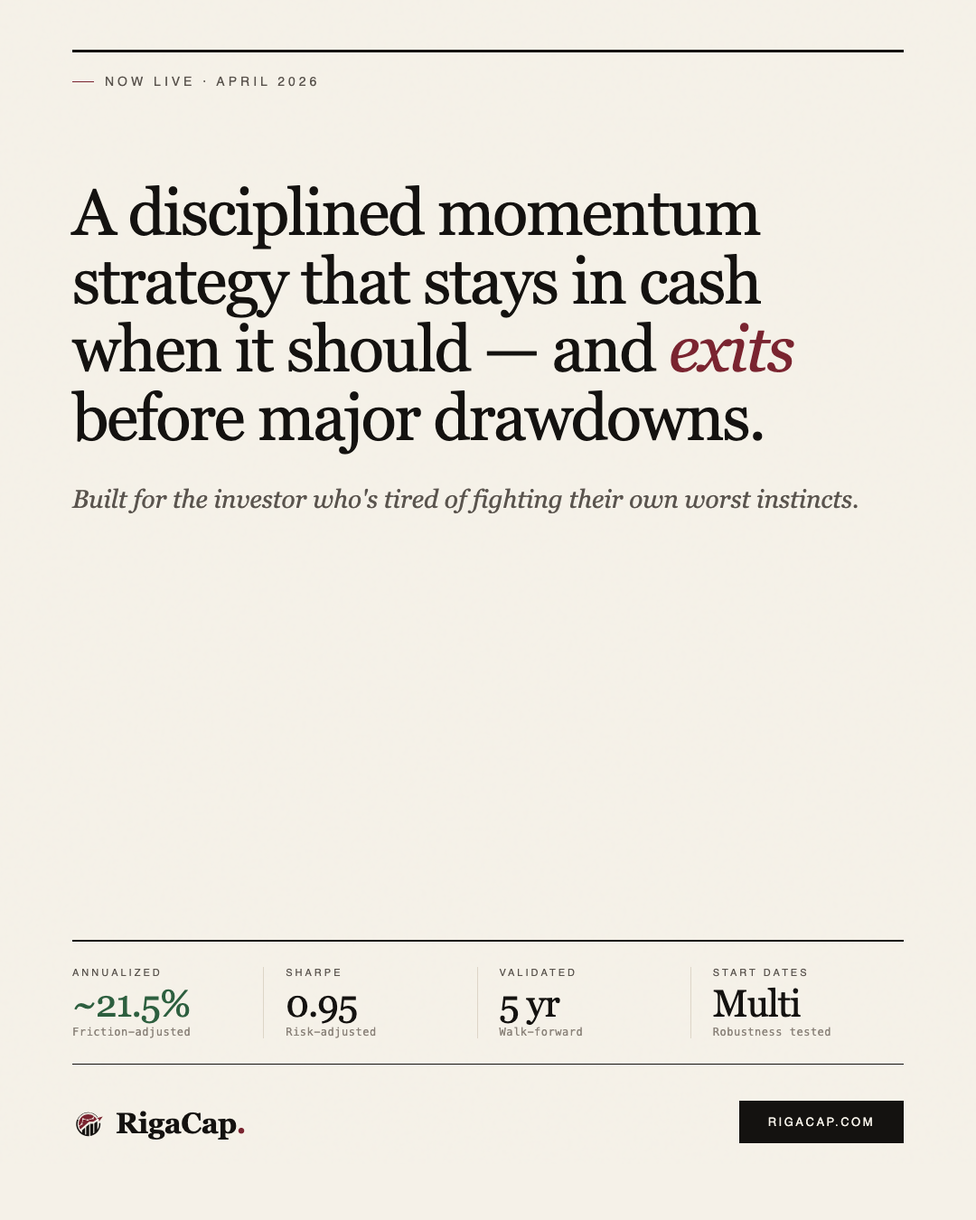
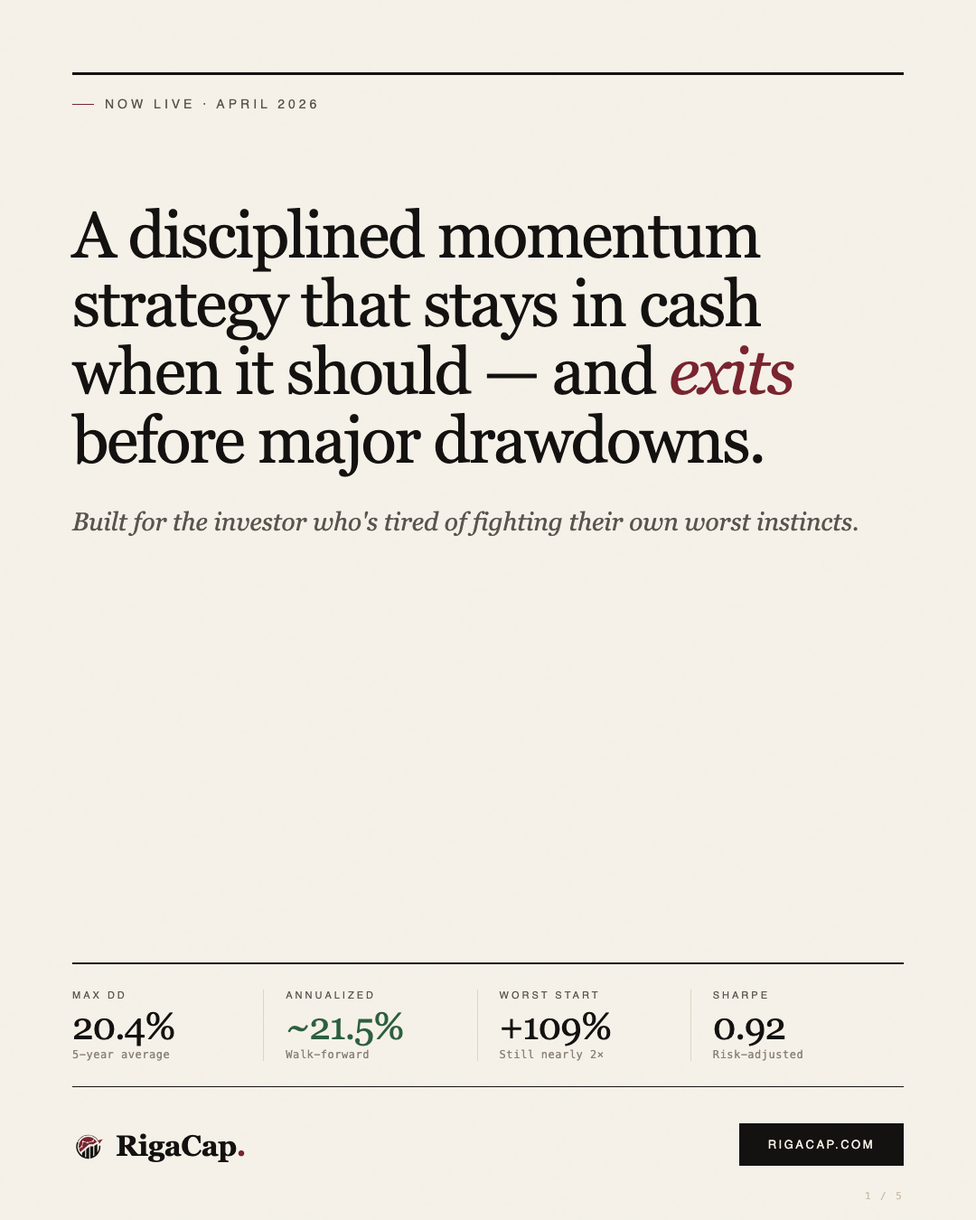
Sweep stale citations + brand update across subscriber-visible surfaces
Cleanup pass after the morning's perf-refresh, catching surfaces missed
in yesterday's first-pass audit:

- LandingPageV2: bear-market paragraph rewrite (every start positive in
  2022, ~+8% avg vs SPY -20%); widow fix on "What you're paying for"
- 10 blog post pages: $39/month → $129/month CTA fix
- SocialTab.jsx: 5 launch posts (Twitter/Instagram/Threads × 5 = 15 text
  blocks) refreshed with current pricing, +160% / 21.5% ann / 20.4% MDD,
  "the system" replaces "algorithm" per voice rules
- email_service.py: 2 missed "ended 2022 flat" mentions corrected
- social-launch-cards-v2.html: pullquote refreshed; Card 1 stats now
  match Landing hero pattern (Max DD / Annualized / Worst Start / Sharpe);
  Card 2 stats show full distribution (Worst / Average / Best / Max DD)
- Launch card PNGs regenerated (5 files): editorial paper+claret brand
  loaded properly, footer + CTA buttons no longer clipped (oversize-then-
  crop fix in regen_launch_cards.py)
- New: scripts/regen_launch_cards.py — reusable PIL-cropping renderer

diff --git a/frontend/src/components/SocialTab.jsx b/frontend/src/components/SocialTab.jsx
@@ -635,15 +635,15 @@ const LAUNCH_POSTS = [
     label: 'The Pitch',
     imageUrl: '/launch-cards/launch-1.png',
     twitter: {
-      text: "Hedge fund returns. $39/month.\n\n+384% over 5 years. Max drawdown around 30%. $10k becomes $48,400.\n\nThe average hedge fund charges 2% + 20% of profits and requires $1M minimum.\n\nWe charge less than your Netflix subscription.\n\nrigacap.com",
+      text: "Walk-forward validated returns. $129/month \u2014 less than a Seeking Alpha Premium subscription.\n\n+160% over 5 years. ~21.5% annualized. 20% max drawdown. Worst-case start date still nearly doubled capital.\n\nAverage hedge fund: ~10% annual, 2/20 fees, $1M minimum.\n\nNo minimums. Same signals for everyone.\n\nrigacap.com",
       hashtags: '#trading #investing #hedgefund',
     },
     instagram: {
-      text: "Hedge fund returns. $39/month.\n\nLet that sink in.\n\nThe average hedge fund returned ~10% annually over the last decade. They charge 2% of your assets plus 20% of your profits. Minimum investment: $1 million.\n\nOur system returned ~37% annually over the same period. We charge $39/month. No minimums. No performance fees. Everyone gets the same signals, whether you invest $5k or $500k.\n\n+384% over 5 years. Max drawdown around 30%. In 2022, while the S&P fell 20%, we stayed flat.\n\n$10,000 becomes $48,400. That's not a projection \u2014 it's what 10 years of walk-forward testing shows.\n\nStop trading on emotions. Start trading on math.\n\nrigacap.com",
+      text: "Better-than-hedge-fund returns. $129/month.\n\nLet that sink in.\n\nThe average hedge fund returned ~10% annually over the last decade. They charge 2% of your assets plus 20% of your profits. Minimum investment: $1 million.\n\nOur 5-year walk-forward averaged ~21.5% annualized across multiple start dates. We charge $129/month. No minimums. No performance fees. Everyone gets the same signals, whether you invest $5k or $500k.\n\n+160% average over 5 years. 20% max drawdown. In 2022, while the S&P fell 20%, every start date in our test ended in positive territory \u2014 averaging about +8%.\n\nStop trading on emotions. Start trading on math.\n\nrigacap.com",
       hashtags: '#trading #investing #hedgefund #algotrading #stockmarket #rigacap',
     },
     threads: {
-      text: "Hedge fund returns. $39/month.\n\n+384% over 5 years. Max drawdown around 30%. $10k \u2192 $48,400.\n\nAverage hedge fund: ~10% annual, $1M minimum, 2/20 fees.\nRigaCap: ~37% annual, no minimum, $39/month.\n\nSame signals whether you invest $5k or $500k.\n\nrigacap.com",
+      text: "Better-than-hedge-fund returns. $129/month.\n\n+160% over 5 years. ~21.5% annualized. 20% max drawdown.\n\nAverage hedge fund: ~10% annual, $1M minimum, 2/20 fees.\nRigaCap: ~21.5% annual, no minimum, $129/month.\n\nSame signals whether you invest $5k or $500k.\n\nrigacap.com",
     },
   },
   {
@@ -651,15 +651,15 @@ const LAUNCH_POSTS = [
     label: 'The 2022 Story',
     imageUrl: '/launch-cards/launch-2.png',
     twitter: {
-      text: "In 2022, the S&P 500 fell 20%.\n\nOur system stayed flat.\n\nIt didn't predict the crash. It just refused to trade in bad conditions. For 5 months, it generated zero signals. Most people would call that broken.\n\nWe call it discipline. And it's why we beat the market.\n\nrigacap.com",
+      text: "In 2022, the S&P 500 fell 20%.\n\nEvery start date in our 5-year walk-forward ended 2022 in positive territory \u2014 averaging about +8%.\n\nThe system didn't predict the crash. It responded to data. Regime-aware sizing and trailing-stop discipline kept the strategy on the right side of risk.\n\nThat behavior is the reason to subscribe.\n\nrigacap.com",
       hashtags: '#trading #investing #riskmanagement',
     },
     instagram: {
-      text: "In 2022, the S&P 500 fell 20%. Every \"buy the dip\" bro got crushed.\n\nOur system stayed flat.\n\nHow? It didn't predict the crash. It didn't short anything. It simply refused to trade.\n\nFor 5 consecutive months, it generated zero buy signals. Zero. It detected that conditions were unfavorable and sat on its hands.\n\nMost signal services would've kept spamming you with picks to justify their subscription. We went silent. Because the math said \"not now.\"\n\nThat discipline \u2014 knowing when NOT to trade \u2014 is worth more than any stock pick. It's the difference between flat and -20%.\n\nYear by year:\n2021: +76%\n2022: Flat (SPY: -20%)\n2023: +28%\n2024: +1%\n2025: +53%\n\nNever. A. Losing. Year.\n\nrigacap.com/track-record",
+      text: "In 2022, the S&P 500 fell 20%. Every \"buy the dip\" bro got crushed.\n\nOur 5-year walk-forward says every start date averaged about +8% in 2022.\n\nNot flat. Positive.\n\nHow? The system didn't predict the crash. It didn't short anything. It just responded to data \u2014 regime-aware position sizing, trailing-stop discipline, and Cascade Guard pausing new entries when multiple positions hit their stops on the same day.\n\nThat discipline \u2014 knowing when NOT to deploy capital \u2014 is worth more than any stock pick. It's the difference between +8% and -20% in a bear year.\n\nClean-data year by year:\n2022: +8% avg (SPY: -20%)\n2023: +12% avg\n2024: +32% avg\n2025: +50% (partial)\n\nEvery year, every start date positive.\n\nrigacap.com/track-record",
       hashtags: '#trading #investing #riskmanagement #bearmarket #algotrading #rigacap',
     },
     threads: {
-      text: "In 2022, the S&P 500 fell 20%.\n\nOur system stayed flat.\n\nFor 5 months it generated zero signals. It refused to trade in bad conditions.\n\nMost services spam you with picks to justify the fee. We went silent. Because the math said \"not now.\"\n\nThat discipline is why we never had a losing year.\n\nrigacap.com/track-record",
+      text: "In 2022, the S&P 500 fell 20%.\n\nEvery start date in our 5-year walk-forward ended 2022 in positive territory \u2014 averaging about +8%.\n\nThe system didn't predict the crash. It responded to data: regime-aware sizing, trailing stops, Cascade Guard.\n\nThat discipline is why every year, every start date came back positive.\n\nrigacap.com/track-record",
     },
   },
   {
@@ -667,15 +667,15 @@ const LAUNCH_POSTS = [
     label: 'Stop Trading on Emotions',
     imageUrl: '/launch-cards/launch-3.png',
     twitter: {
-      text: "You know you shouldn't panic sell.\nYou know you shouldn't FOMO buy.\nYou know you shouldn't check your portfolio 40 times a day.\n\nBut you do it anyway. Because you're human.\n\nOur algorithm isn't. That's the point.\n\n$39/month. rigacap.com",
+      text: "You know you shouldn't panic sell.\nYou know you shouldn't FOMO buy.\nYou know you shouldn't check your portfolio 40 times a day.\n\nBut you do it anyway. Because you're human.\n\nThe system isn't. That's the point.\n\n$129/month. rigacap.com",
       hashtags: '#trading #investing #emotionaltrading',
     },
     instagram: {
-      text: "Stop trading on emotions. Start trading on math.\n\nYou know the rules:\n\u2022 Don't panic sell\n\u2022 Don't FOMO into a rally\n\u2022 Don't hold losers hoping they'll come back\n\u2022 Don't check your portfolio 40 times a day\n\nBut you do it anyway. Because you're human. And humans are terrible at this.\n\nOur algorithm doesn't have feelings. It doesn't get scared. It doesn't get greedy. It doesn't read Reddit threads at 2am and convince itself to buy GameStop.\n\nIt scans 4,000 stocks daily. It detects 7 market regimes. It waits for all three factors to align. And when nothing qualifies, it does nothing.\n\nThat mechanical discipline produced ~37% annualized returns over 5 years. Max drawdown around 30%.\n\nYou don't need more stock picks. You need a system that removes you from the equation.\n\n$39/month. rigacap.com",
+      text: "Stop trading on emotions. Start trading on math.\n\nYou know the rules:\n\u2022 Don't panic sell\n\u2022 Don't FOMO into a rally\n\u2022 Don't hold losers hoping they'll come back\n\u2022 Don't check your portfolio 40 times a day\n\nBut you do it anyway. Because you're human. And humans are terrible at this.\n\nThe system doesn't have feelings. It doesn't get scared. It doesn't get greedy. It doesn't read Reddit threads at 2am and convince itself to buy GameStop.\n\nIt scans 4,000+ stocks daily. It tracks 7 market regimes. It waits for breakout timing, momentum quality, and volume to align. And when nothing qualifies, it does nothing.\n\nThat mechanical discipline produced ~21.5% annualized returns over 5 years. 20% max drawdown.\n\nYou don't need more stock picks. You need a system that removes you from the equation.\n\n$129/month. rigacap.com",
       hashtags: '#trading #investing #emotionaltrading #algotrading #stockmarket #rigacap',
     },
     threads: {
-      text: "You know you shouldn't panic sell.\nYou know you shouldn't FOMO buy.\nYou do it anyway. Because you're human.\n\nOur algorithm isn't. It scans 4,000 stocks daily, detects 7 market regimes, and only acts when the math says go.\n\n~37% annualized over 5 years. Max drawdown around 30%.\n\nStop trading on emotions. $39/month.\n\nrigacap.com",
+      text: "You know you shouldn't panic sell.\nYou know you shouldn't FOMO buy.\nYou do it anyway. Because you're human.\n\nThe system isn't. It scans 4,000+ stocks daily across 7 regimes, and only acts when the math says go.\n\n~21.5% annualized over 5 years. 20% max drawdown.\n\nStop trading on emotions. $129/month.\n\nrigacap.com",
     },
   },
   {
@@ -683,15 +683,15 @@ const LAUNCH_POSTS = [
     label: 'The Math',
     imageUrl: '/launch-cards/launch-4.png',
     twitter: {
-      text: "$10,000 invested 10 years ago:\n\nS&P 500 index fund: $25,700\nAverage hedge fund: $26,000\nRigaCap: $48,400\n\nOne of these costs $39/month.\nOne charges 2% + 20% and needs $1M to get in.\nOne you can buy at Vanguard.\n\nrigacap.com",
+      text: "$10,000 invested 5 years ago across our walk-forward:\n\nS&P 500 (price-only): $19,300\nAverage hedge fund: $16,100\nRigaCap (avg of multiple starts): $26,000\n\nOne charges 2% + 20% and needs $1M minimum.\nOne is the index.\nOne is $129/month.\n\nrigacap.com",
       hashtags: '#trading #investing #compounding',
     },
     instagram: {
-      text: "Let's do the math.\n\n$10,000 invested 10 years ago:\n\n\ud83d\udfe2 RigaCap: $48,400 (+384%)\n\ud83d\udfe1 S&P 500: $25,700 (+257%)\n\ud83d\udd34 Average hedge fund: $26,000 (~10% ann)\n\nRigaCap beat the market by 2x. And the average hedge fund.\n\nThe hedge fund charges:\n\u2022 2% of your assets annually\n\u2022 20% of your profits\n\u2022 $1M+ minimum investment\n\nRigaCap charges:\n\u2022 $39/month\n\u2022 No minimums\n\u2022 No performance fees\n\u2022 Same signals for everyone\n\nA $50k portfolio earning 20% annually = $10k/year in returns.\nRigaCap's annual cost: $468.\n\nThat's a 21:1 value ratio.\n\nPast performance doesn't guarantee future results. But the math is the math.\n\nrigacap.com",
+      text: "Let's do the math.\n\n$10,000 invested 5 years ago, walk-forward validated:\n\nRigaCap: $26,000 (+160%)\nS&P 500 (price-only): $19,300 (+93%)\nAverage hedge fund: $16,100 (~10% ann)\n\nThe hedge fund charges:\n\u2022 2% of your assets annually\n\u2022 20% of your profits\n\u2022 $1M+ minimum investment\n\nRigaCap charges:\n\u2022 $129/month\n\u2022 No minimums\n\u2022 No performance fees\n\u2022 Same signals for everyone\n\nA $100k portfolio earning ~21.5% annually = roughly $21,500/year.\nRigaCap annual cost: $1,548 (or $1,099 on the annual plan).\n\nPast performance doesn't guarantee future results. But the math is the math.\n\nrigacap.com",
       hashtags: '#trading #investing #compounding #hedgefund #algotrading #rigacap',
     },
     threads: {
-      text: "$10,000 over 5 years:\n\nS&P 500: $25,700\nAvg hedge fund: $26,000\nRigaCap: $48,400\n\nThe hedge fund charges 2/20 and needs $1M minimum.\nWe charge $39/month. No minimums.\n\n$50k portfolio \u00d7 20% return = $10k/year.\nRigaCap cost: $468/year.\n\n21:1 value ratio.\n\nrigacap.com",
+      text: "$10,000 over 5 years:\n\nRigaCap: $26,000 (+160%)\nS&P 500: $19,300\nAvg hedge fund: $16,100\n\nThe hedge fund charges 2/20 and needs $1M minimum.\nWe charge $129/month. No minimums.\n\n$100k portfolio \u00d7 ~21.5% return = ~$21,500/year potential.\nRigaCap cost: $1,548/year.\n\nrigacap.com",
     },
   },
   {
@@ -699,15 +699,15 @@ const LAUNCH_POSTS = [
     label: 'The Anti-Signal Service',
     imageUrl: '/launch-cards/launch-5.png',
     twitter: {
-      text: "Most signal services send you 15 picks a week to justify the subscription.\n\nWe send 3-4 a month. Sometimes zero.\n\nBecause we'd rather say nothing than say something wrong. And that discipline is why we returned +384% over 5 years.\n\nrigacap.com",
+      text: "Most signal services send you 15 picks a week to justify the subscription.\n\nWe send 3-4 a month. Sometimes zero.\n\nBecause we'd rather say nothing than say something wrong. That discipline is why we averaged +160% over 5 years across multiple start dates.\n\nrigacap.com",
       hashtags: '#trading #signals #investing',
     },
     instagram: {
-      text: "We're the anti-signal service.\n\nMotley Fool sends you a pick every week. Seeking Alpha has 47 \"strong buys\" right now. Your buddy's Discord has a new hot stock every hour.\n\nWe send 3-4 signals per month. Sometimes zero.\n\nWhy? Because our system scans 4,000 stocks daily through a 3-factor gauntlet \u2014 breakout timing, momentum quality, and market regime \u2014 and most days, nothing passes. Not one stock out of 4,000 meets the bar.\n\nThat's not a bug. That's the whole point.\n\nThe signal services that spam you with picks are optimizing for engagement. We're optimizing for returns.\n\n+384% over 5 years. Max drawdown around 30%.\n\nYou don't need more picks. You need better picks. And the discipline to do nothing the rest of the time.\n\n$39/month. rigacap.com",
+      text: "We're the anti-signal service.\n\nMotley Fool sends you a pick every week. Seeking Alpha has 47 \"strong buys\" right now. Your buddy's Discord has a new hot stock every hour.\n\nWe send 3-4 signals per month. Sometimes zero.\n\nWhy? The system scans 4,000+ stocks daily through a 3-factor gauntlet \u2014 breakout timing, momentum quality, and volume confirmation \u2014 and most days, nothing passes. Not one stock out of 4,000 meets the bar.\n\nThat's not a bug. That's the whole point.\n\nThe signal services that spam you with picks are optimizing for engagement. We're optimizing for returns.\n\n+160% over 5 years across multiple start dates. 20% max drawdown.\n\nYou don't need more picks. You need better picks. And the discipline to do nothing the rest of the time.\n\n$129/month. rigacap.com",
       hashtags: '#trading #signals #investing #stockmarket #algotrading #rigacap',
     },
     threads: {
-      text: "Most signal services send 15 picks a week to justify the fee.\n\nWe send 3-4 a month. Sometimes zero.\n\nOur system scans 4,000 stocks daily. Most days, nothing passes. That's not broken \u2014 that's discipline.\n\n+384% over 5 years. Max drawdown around 30%.\n\nYou don't need more picks. You need better picks.\n\n$39/month. rigacap.com",
+      text: "Most signal services send 15 picks a week to justify the fee.\n\nWe send 3-4 a month. Sometimes zero.\n\nThe system scans 4,000+ stocks daily. Most days, nothing passes. That's not broken \u2014 that's discipline.\n\n+160% over 5 years. 20% max drawdown.\n\nYou don't need more picks. You need better picks.\n\n$129/month. rigacap.com",
     },
   },
 ];

diff --git a/design/brand/social-launch-cards-v2.html b/design/brand/social-launch-cards-v2.html
@@ -66,10 +66,10 @@
     <p class="subhead">Built for the investor who's tired of fighting their own&nbsp;worst&nbsp;instincts.</p>
     <div class="spacer"></div>
     <div class="stats-strip">
-      <div class="stat"><div class="stat-label">Annualized</div><div class="stat-value positive">~21.5%</div><div class="stat-sub">5-year walk-forward</div></div>
+      <div class="stat"><div class="stat-label">Max DD</div><div class="stat-value">20.4%</div><div class="stat-sub">5-year average</div></div>
+      <div class="stat"><div class="stat-label">Annualized</div><div class="stat-value positive">~21.5%</div><div class="stat-sub">Walk-forward</div></div>
+      <div class="stat"><div class="stat-label">Worst Start</div><div class="stat-value">+109%</div><div class="stat-sub">Still nearly 2&times;</div></div>
       <div class="stat"><div class="stat-label">Sharpe</div><div class="stat-value">0.92</div><div class="stat-sub">Risk-adjusted</div></div>
-      <div class="stat"><div class="stat-label">Validated</div><div class="stat-value">5 yr</div><div class="stat-sub">Walk-forward</div></div>
-      <div class="stat"><div class="stat-label">Start dates</div><div class="stat-value">Multi</div><div class="stat-sub">Robustness tested</div></div>
     </div>
     <div class="footer">
       <span class="brand"><svg class="brand-logo" xmlns="http://www.w3.org/2000/svg" viewBox="0 0 1280 1024"><g transform="matrix(5.27 0 0 5.27 640 511)"><g><g transform="matrix(0.448 0 0 0.448 -22.4 -28.8)"><path fill="#7A2430" transform="translate(-300,-286)" d="M215.49 348.13C215.49 341.43 220.55 335.98 227.05 335.22L241.64 278.36C238.32 275.99 236.13 272.12 236.13 267.73C236.13 260.51 241.98 254.66 249.2 254.66C255.89 254.66 261.34 259.71 262.11 266.19L309.18 278.16C311.55 274.82 315.42 272.63 319.83 272.63C324 272.63 327.67 274.62 330.06 277.66L391.39 258.85C391.87 252.06 397.46 246.69 404.37 246.69C405.09 246.69 405.78 246.79 406.47 246.91L420.4 223.13C395.44 205.2 364.84 194.62 331.76 194.62C247.75 194.62 179.66 262.72 179.66 346.72C179.66 357.06 180.71 367.15 182.69 376.91L216.05 351.72C215.72 350.57 215.49 349.38 215.49 348.13z"/></g><g transform="matrix(0.448 0 0 0.448 -11.1 -9)"><path fill="#7A2430" transform="translate(-325,-330)" d="M427.89 228.86L414.54 251.65C416.32 253.88 417.43 256.68 417.43 259.76C417.43 266.98 411.58 272.83 404.37 272.83C400.19 272.83 396.52 270.84 394.13 267.79L332.8 286.61C332.33 293.39 326.73 298.76 319.83 298.76C313.14 298.76 307.69 293.72 306.92 287.24L259.84 275.26C257.76 278.21 254.48 280.2 250.71 280.64L236.12 337.5C239.44 339.87 241.63 343.74 241.63 348.13C241.63 355.35 235.78 361.2 228.56 361.2C226.02 361.2 223.68 360.45 221.67 359.19L185.04 386.86C189.39 402.76 196.25 417.63 205.17 431L343.51 312.12L408.04 312.12L465.59 274.41C456.09 256.86 443.23 241.4 427.89 228.86z"/></g><g transform="matrix(0.448 0 0 0.448 73.8 -37.1)"><polygon fill="#7A2430" points="-45.31,-14.33 45.31,-39.44 -12.75,39.44 -17.06,3.28"/></g><g transform="matrix(0.448 0 0 0.448 -48.2 25.7)"><path fill="#141210" transform="translate(-242,-407)" d="M297.69 513.38C291.85 512.18 286.13 510.68 280.53 508.91L280.53 405.3L233.16 446.01L233.16 485.18C189.93 454.31 161.67 403.77 161.67 346.72C161.67 321.48 167.23 297.53 177.14 275.97L153.41 275.97C144.69 297.88 139.84 321.74 139.84 346.72C139.84 452.54 225.93 538.63 331.76 538.63C336.23 538.63 340.66 538.42 345.06 538.12L345.06 349.85L297.69 390.55L297.69 513.38z"/></g><g transform="matrix(0.448 0 0 0.448 41.6 31.4)"><path fill="#141210" transform="translate(-443,-420)" d="M523.16 333.38L501.27 333.38C501.62 337.79 501.85 342.23 501.85 346.72C501.85 381 491.63 412.92 474.11 439.65L474.11 304.24L426.75 335.28L426.75 487.65C421.24 491.37 415.52 494.78 409.58 497.85L409.58 341.74L362.22 341.74L362.22 536.19C453.61 521.55 523.67 442.17 523.67 346.72C523.67 342.23 523.46 337.79 523.16 333.38z"/></g><g transform="matrix(0.448 0 0 0.448 -11.8 -60.8)"><path fill="#141210" transform="translate(-324,-214)" d="M331.75 169.32C390.45 169.32 442.58 197.98 474.89 242.04L483.06 239.78C449.46 192.37 394.16 161.37 331.75 161.37C258.06 161.37 194.28 204.6 164.43 267.02L173.29 267.02C202.53 209.12 262.58 169.32 331.75 169.32z"/></g></g></g></svg>RigaCap<span class="dot">.</span></span>
@@ -89,12 +89,12 @@
     <p class="subhead">Every start date positive. Best, average, and worst — all&nbsp;published.</p>
     <div class="spacer"></div>
     <div class="stats-strip">
-      <div class="stat"><div class="stat-label">Avg Return</div><div class="stat-value positive">+160%</div><div class="stat-sub">5-year total</div></div>
-      <div class="stat"><div class="stat-label">Worst Start</div><div class="stat-value">+109%</div><div class="stat-sub">Still positive</div></div>
-      <div class="stat"><div class="stat-label">Sharpe</div><div class="stat-value">0.92</div><div class="stat-sub">Risk-adjusted</div></div>
-      <div class="stat"><div class="stat-label">S&P 500</div><div class="stat-value">+93%</div><div class="stat-sub">Same period</div></div>
+      <div class="stat"><div class="stat-label">Worst Start</div><div class="stat-value">+109%</div><div class="stat-sub">Still nearly 2&times;</div></div>
+      <div class="stat"><div class="stat-label">Average</div><div class="stat-value positive">+160%</div><div class="stat-sub">All start dates</div></div>
+      <div class="stat"><div class="stat-label">Best Start</div><div class="stat-value">+252%</div><div class="stat-sub">Top of distribution</div></div>
+      <div class="stat"><div class="stat-label">Max DD</div><div class="stat-value">20.4%</div><div class="stat-sub">Drawdown</div></div>
     </div>
-    <div class="pullquote">The system ended 2022 flat while the S&P fell 20% — not by luck,&nbsp;but&nbsp;by&nbsp;design.</div>
+    <div class="pullquote">Every start date ended 2022 in positive territory while the S&P fell 20% — not by luck, but by&nbsp;design.</div>
     <div class="footer">
       <span class="brand"><svg class="brand-logo" xmlns="http://www.w3.org/2000/svg" viewBox="0 0 1280 1024"><g transform="matrix(5.27 0 0 5.27 640 511)"><g><g transform="matrix(0.448 0 0 0.448 -22.4 -28.8)"><path fill="#7A2430" transform="translate(-300,-286)" d="M215.49 348.13C215.49 341.43 220.55 335.98 227.05 335.22L241.64 278.36C238.32 275.99 236.13 272.12 236.13 267.73C236.13 260.51 241.98 254.66 249.2 254.66C255.89 254.66 261.34 259.71 262.11 266.19L309.18 278.16C311.55 274.82 315.42 272.63 319.83 272.63C324 272.63 327.67 274.62 330.06 277.66L391.39 258.85C391.87 252.06 397.46 246.69 404.37 246.69C405.09 246.69 405.78 246.79 406.47 246.91L420.4 223.13C395.44 205.2 364.84 194.62 331.76 194.62C247.75 194.62 179.66 262.72 179.66 346.72C179.66 357.06 180.71 367.15 182.69 376.91L216.05 351.72C215.72 350.57 215.49 349.38 215.49 348.13z"/></g><g transform="matrix(0.448 0 0 0.448 -11.1 -9)"><path fill="#7A2430" transform="translate(-325,-330)" d="M427.89 228.86L414.54 251.65C416.32 253.88 417.43 256.68 417.43 259.76C417.43 266.98 411.58 272.83 404.37 272.83C400.19 272.83 396.52 270.84 394.13 267.79L332.8 286.61C332.33 293.39 326.73 298.76 319.83 298.76C313.14 298.76 307.69 293.72 306.92 287.24L259.84 275.26C257.76 278.21 254.48 280.2 250.71 280.64L236.12 337.5C239.44 339.87 241.63 343.74 241.63 348.13C241.63 355.35 235.78 361.2 228.56 361.2C226.02 361.2 223.68 360.45 221.67 359.19L185.04 386.86C189.39 402.76 196.25 417.63 205.17 431L343.51 312.12L408.04 312.12L465.59 274.41C456.09 256.86 443.23 241.4 427.89 228.86z"/></g><g transform="matrix(0.448 0 0 0.448 73.8 -37.1)"><polygon fill="#7A2430" points="-45.31,-14.33 45.31,-39.44 -12.75,39.44 -17.06,3.28"/></g><g transform="matrix(0.448 0 0 0.448 -48.2 25.7)"><path fill="#141210" transform="translate(-242,-407)" d="M297.69 513.38C291.85 512.18 286.13 510.68 280.53 508.91L280.53 405.3L233.16 446.01L233.16 485.18C189.93 454.31 161.67 403.77 161.67 346.72C161.67 321.48 167.23 297.53 177.14 275.97L153.41 275.97C144.69 297.88 139.84 321.74 139.84 346.72C139.84 452.54 225.93 538.63 331.76 538.63C336.23 538.63 340.66 538.42 345.06 538.12L345.06 349.85L297.69 390.55L297.69 513.38z"/></g><g transform="matrix(0.448 0 0 0.448 41.6 31.4)"><path fill="#141210" transform="translate(-443,-420)" d="M523.16 333.38L501.27 333.38C501.62 337.79 501.85 342.23 501.85 346.72C501.85 381 491.63 412.92 474.11 439.65L474.11 304.24L426.75 335.28L426.75 487.65C421.24 491.37 415.52 494.78 409.58 497.85L409.58 341.74L362.22 341.74L362.22 536.19C453.61 521.55 523.67 442.17 523.67 346.72C523.67 342.23 523.46 337.79 523.16 333.38z"/></g><g transform="matrix(0.448 0 0 0.448 -11.8 -60.8)"><path fill="#141210" transform="translate(-324,-214)" d="M331.75 169.32C390.45 169.32 442.58 197.98 474.89 242.04L483.06 239.78C449.46 192.37 394.16 161.37 331.75 161.37C258.06 161.37 194.28 204.6 164.43 267.02L173.29 267.02C202.53 209.12 262.58 169.32 331.75 169.32z"/></g></g></g></svg>RigaCap<span class="dot">.</span></span>
       <span class="cta">rigacap.com/track-record</span>

diff --git a/frontend/src/LandingPageV2.jsx b/frontend/src/LandingPageV2.jsx
@@ -121,8 +121,8 @@ const ValuePropSection = () => (
       <SectionLabel>What You're Actually Paying For</SectionLabel>
 
       <p className="font-display text-[1.5rem] leading-[1.45] text-ink mb-7" style={{ fontVariationSettings: '"opsz" 48' }}>
-        You can find signals anywhere. What's harder to find is the{' '}
-        <em className="text-claret italic">discipline to follow them.</em>
+        You can find signals anywhere.<br />
+        What's harder to find is the <em className="text-claret italic">discipline to follow them.</em>
       </p>
 
       <div className="space-y-5 text-[1.05rem] leading-[1.75] text-ink max-w-[62ch]">
@@ -245,9 +245,8 @@ const PerformanceSection = () => (
           The bear-market test.
         </h3>
         <p className="text-ink leading-[1.7]">
-          The five-year window included one major bear market. The system ended it flat while the S&P fell 20% &mdash;{' '}
-          <strong className="font-medium">not by luck, but by design.</strong> Regime detection triggered de-risking before the drawdown
-          and kept the system in cash until conditions improved.{' '}
+          The five-year window included one major bear market. <strong className="font-medium">Every start date ended 2022 in positive territory</strong> while the S&P fell 20% &mdash;{' '}
+          not by luck, but by design. Regime-aware position sizing and trailing-stop discipline kept the strategy on the right side of risk through the year &mdash; responding to data as it changed, not predicting the drawdown.<br />
           <em className="font-display italic text-claret">That behavior, not the headline return, is the reason to subscribe.</em>
         </p>
       </div>

diff --git a/frontend/src/BlogWalkForwardResultsPage.jsx b/frontend/src/BlogWalkForwardResultsPage.jsx
@@ -380,7 +380,7 @@ export default function BlogWalkForwardResultsPage() {
             </Link>
           </div>
           <p className="text-xs text-ink-light mt-4">
-            7-day free trial. $39/month after. Cancel anytime.
+            7-day free trial. $129/month after. Cancel anytime.
           </p>
         </div>
 

diff --git a/frontend/src/BlogMarketRegimeGuidePage.jsx b/frontend/src/BlogMarketRegimeGuidePage.jsx
@@ -362,7 +362,7 @@ export default function BlogMarketRegimeGuidePage() {
             </Link>
           </div>
           <p className="text-xs text-ink-light mt-4">
-            7-day free trial. $39/month after. Cancel anytime.
+            7-day free trial. $129/month after. Cancel anytime.
           </p>
         </div>
 

diff --git a/frontend/src/BlogMomentumTradingPage.jsx b/frontend/src/BlogMomentumTradingPage.jsx
@@ -446,7 +446,7 @@ export default function BlogMomentumTradingPage() {
             </Link>
           </div>
           <p className="text-xs text-ink-light mt-4">
-            7-day free trial. $39/month after. Cancel anytime.
+            7-day free trial. $129/month after. Cancel anytime.
           </p>
         </div>
 

diff --git a/frontend/src/BlogWeCalledItMRNAPage.jsx b/frontend/src/BlogWeCalledItMRNAPage.jsx
@@ -364,7 +364,7 @@ export default function BlogWeCalledItMRNAPage() {
             </Link>
           </div>
           <p className="text-xs text-ink-light mt-4">
-            7-day free trial. $39/month after. Cancel anytime.
+            7-day free trial. $129/month after. Cancel anytime.
           </p>
         </div>
 

diff --git a/frontend/src/BlogWeCalledItTGTXPage.jsx b/frontend/src/BlogWeCalledItTGTXPage.jsx
@@ -278,7 +278,7 @@ export default function BlogWeCalledItTGTXPage() {
             </Link>
           </div>
           <p className="text-xs text-ink-light mt-4">
-            7-day free trial. $39/month after. Cancel anytime.
+            7-day free trial. $129/month after. Cancel anytime.
           </p>
         </div>
 

diff --git a/frontend/src/BlogMarketRegimesPage.jsx b/frontend/src/BlogMarketRegimesPage.jsx
@@ -307,7 +307,7 @@ export default function BlogMarketRegimesPage() {
             </Link>
           </div>
           <p className="text-xs text-ink-light mt-4">
-            7-day free trial. $39/month after. Cancel anytime.
+            7-day free trial. $129/month after. Cancel anytime.
           </p>
         </div>
 

diff --git a/frontend/src/BlogTrailingStopsPage.jsx b/frontend/src/BlogTrailingStopsPage.jsx
@@ -373,7 +373,7 @@ export default function BlogTrailingStopsPage() {
             </Link>
           </div>
           <p className="text-xs text-ink-light mt-4">
-            7-day free trial. $39/month after. Cancel anytime.
+            7-day free trial. $129/month after. Cancel anytime.
           </p>
         </div>
 

diff --git a/frontend/src/BlogMarketCrashPage.jsx b/frontend/src/BlogMarketCrashPage.jsx
@@ -381,7 +381,7 @@ export default function BlogMarketCrashPage() {
             </Link>
           </div>
           <p className="text-xs text-ink-light mt-4">
-            7-day free trial. $39/month after. Cancel anytime.
+            7-day free trial. $129/month after. Cancel anytime.
           </p>
         </div>
 

diff --git a/frontend/src/Blog2022StoryPage.jsx b/frontend/src/Blog2022StoryPage.jsx
@@ -311,7 +311,7 @@ export default function Blog2022StoryPage() {
             </Link>
           </div>
           <p className="text-xs text-ink-light mt-4">
-            7-day free trial. $39/month after. Cancel anytime.
+            7-day free trial. $129/month after. Cancel anytime.
           </p>
         </div>
 
